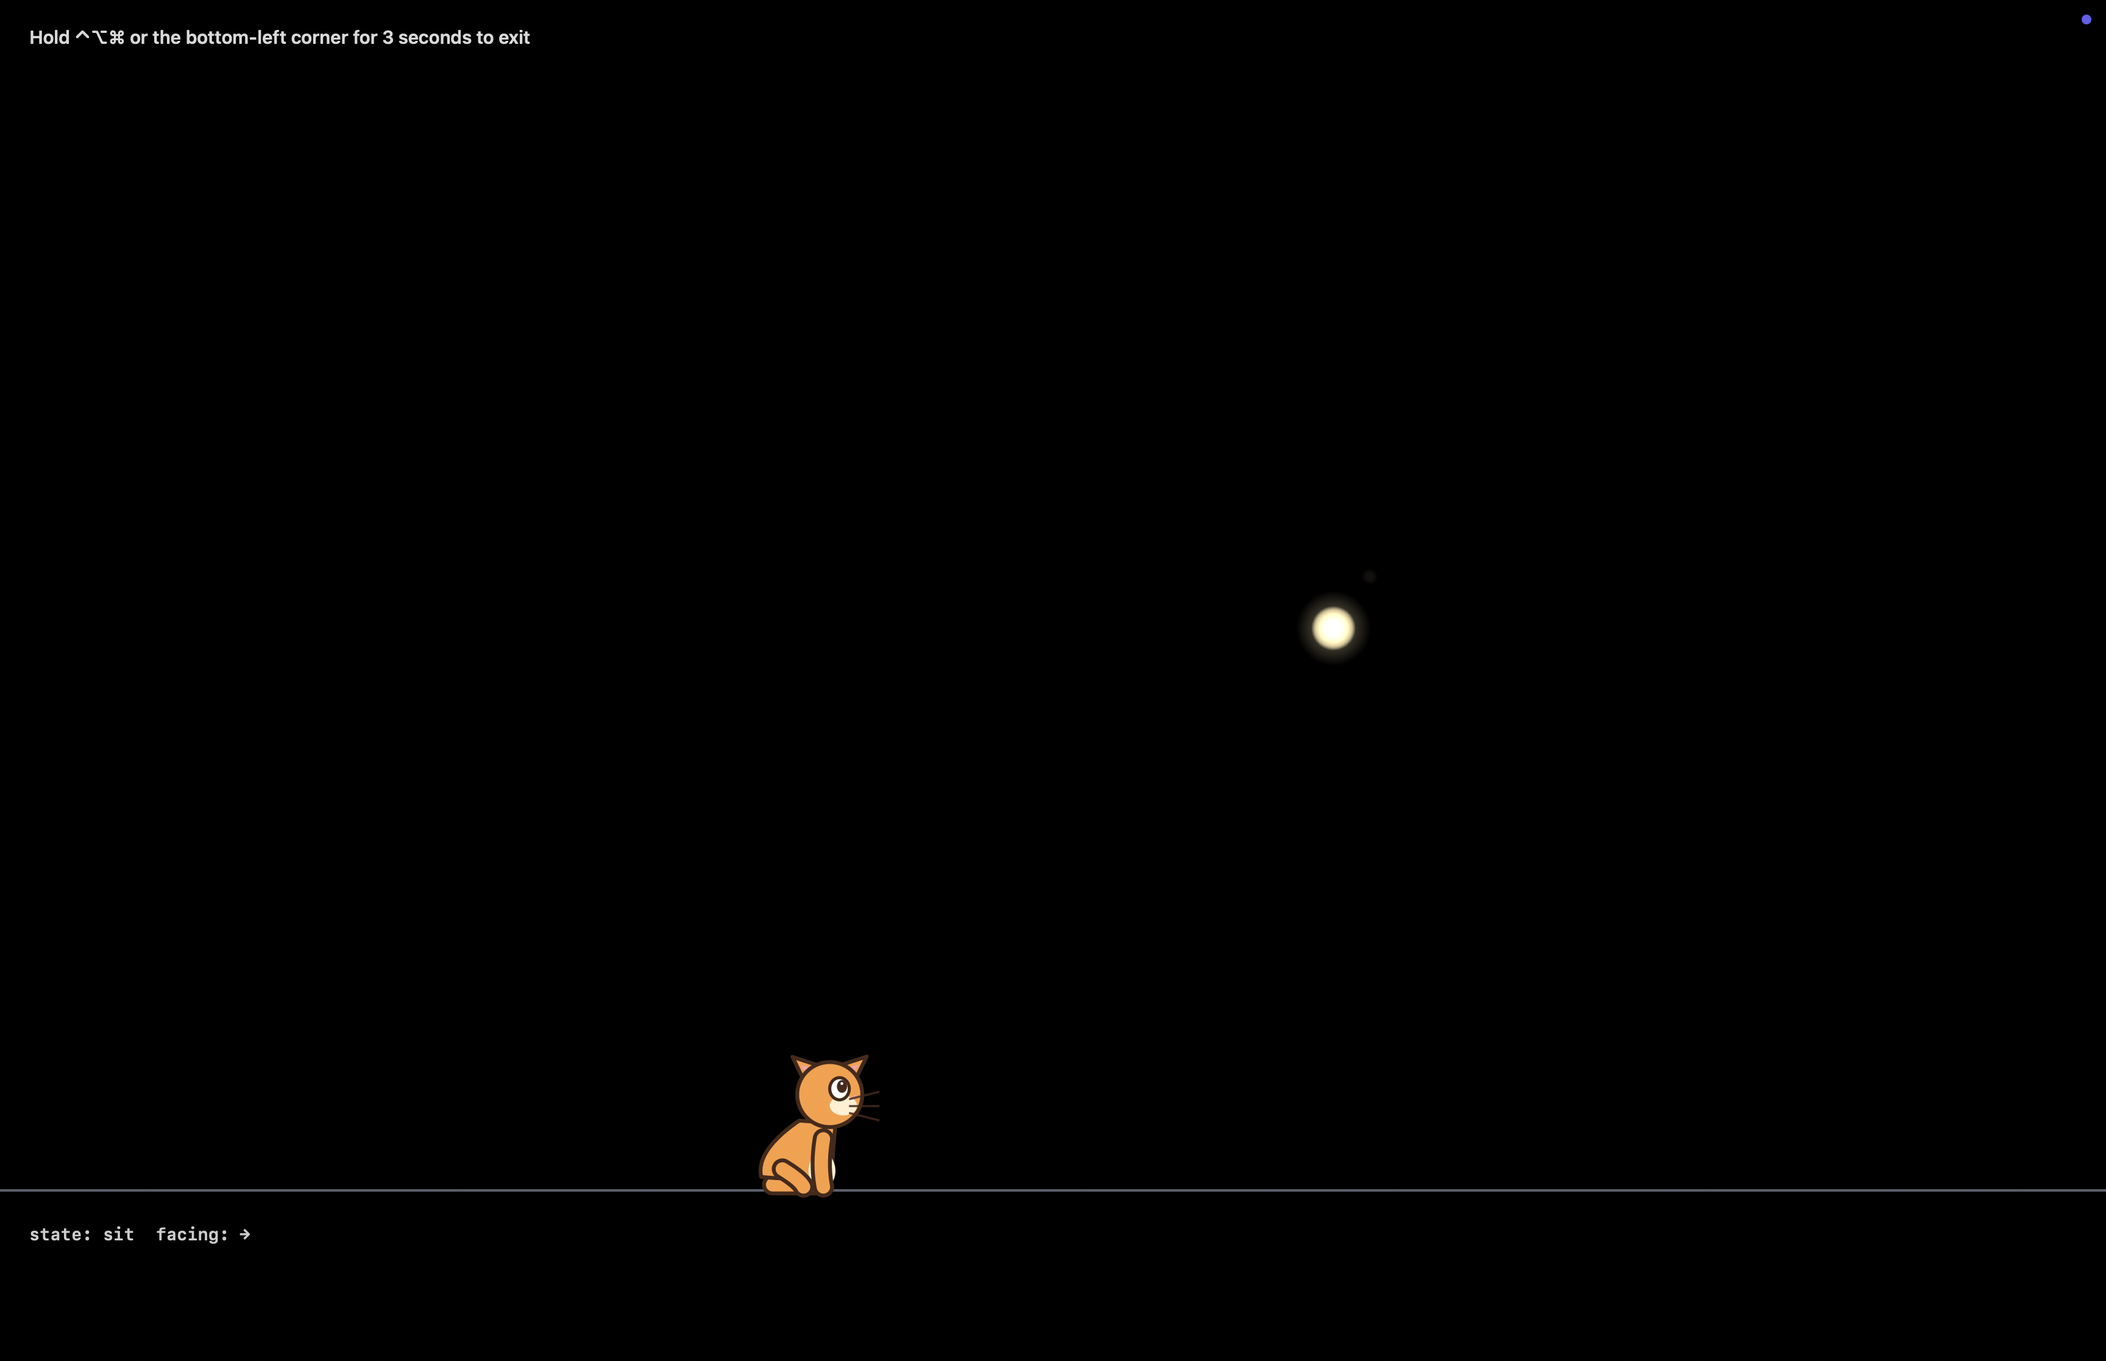
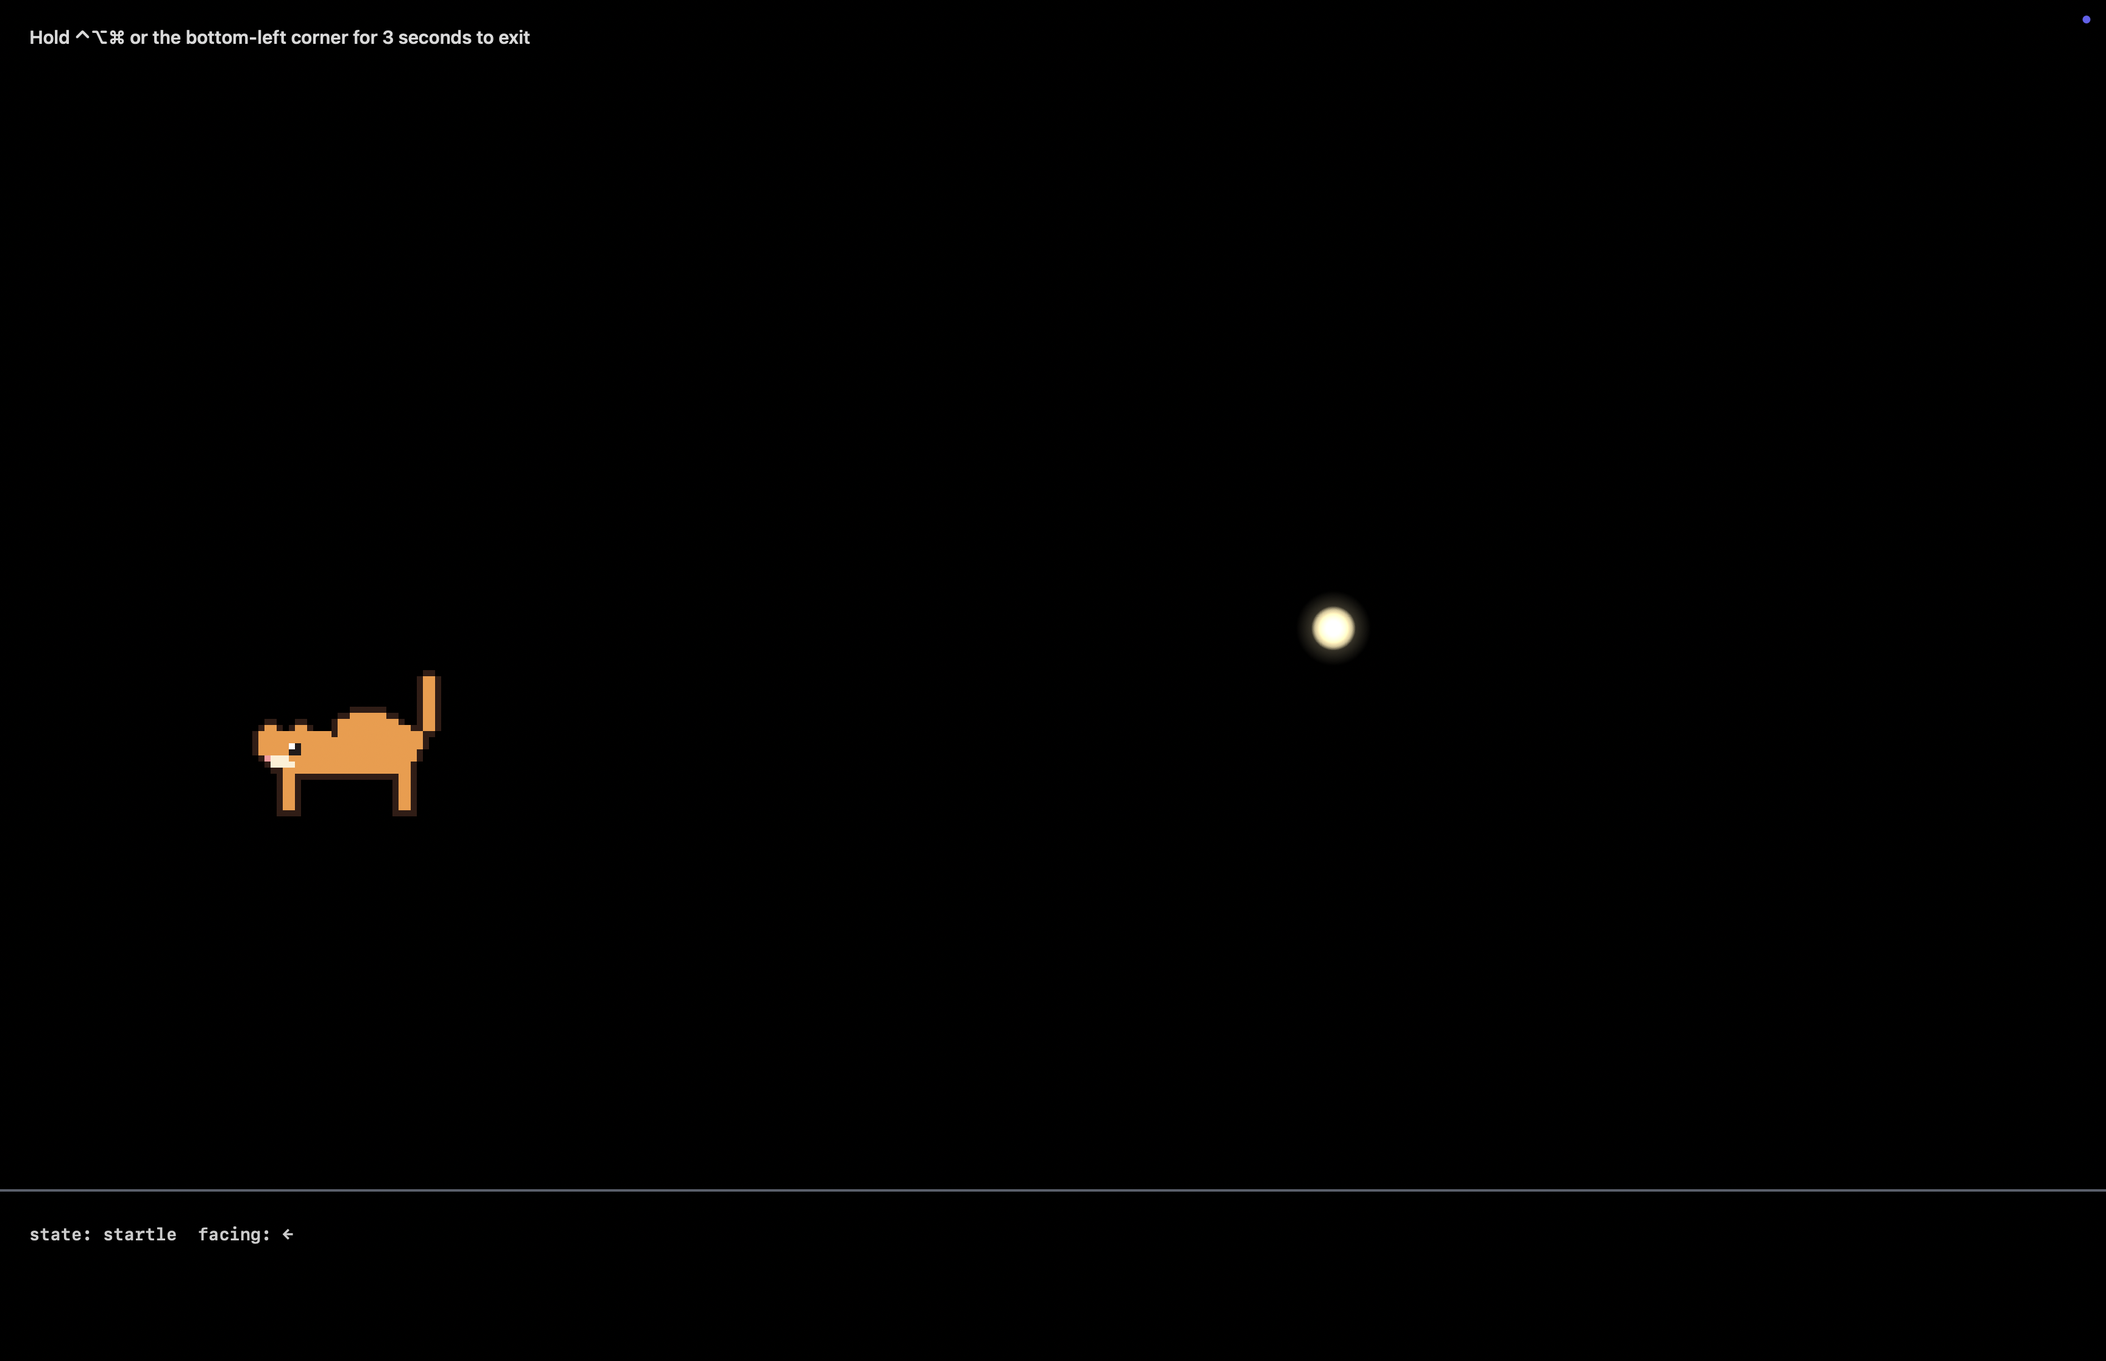
KiddyCat: 8-bit pixel style — authored sprite frames, third look on one brain
KP_CATSTYLE=pixel in the Cat Lab. Real pixel-art discipline, not a shrunken
vector cat: 34x24 text-bitmap frames on a coarse grid, 7-color palette
(outline/orange/shade/cream/pink/shine/pupil), exterior-only 1px outline,
2x2 eye with a single shine pixel, integer scaling with interpolation OFF
and integer screen coords for crisp chunky pixels.

Frames: idle(+blink), 4-frame walk cycle with shaded far legs and a 1px
gait bob on passing frames, sit(+blink) with wrapped tail, low stalk pair
with paw shuffle, bounding pounce with reaching forepaws, play-bow stretch,
and an arched bottle-brush startle. The shared KiddyCat brain (states, gait
phase, blink timers, laser AI) selects frames; facing flips the blit.

Iterated via the screenshot loop x9: fixed boxed-eye keyhole, giant cream
jaw, neck notch, horse-gap legs, weasel pounce, detached stretch leg,
earless startle.

Changed region(s): [[0.0938, 0.4942, 0.2188, 0.6177], [0.3438, 0.7722, 0.4375, 0.8957], [0.0625, 0.8957, 0.125, 0.9266]]

diff --git a/Sources/kiddyproof/KiddyCatPixel.swift b/Sources/kiddyproof/KiddyCatPixel.swift
@@ -1,0 +1,279 @@
+import AppKit
+
+// KIDDY, 8-BIT — authored pixel-art sprite frames (not a scaled-down vector cat):
+// a coarse grid, a tight palette, crisp integer scaling with interpolation OFF,
+// and discrete animation frames chosen by the shared KiddyCat brain (gait phase,
+// states, blink). The polish rules are the classic ones: 1px outline on the
+// EXTERIOR silhouette only, a 2x2 eye with a single shine pixel, restrained
+// interior detail, readable silhouette at a glance.
+enum KiddyCatPixel {
+
+    // Palette: '.'=clear  K=outline  O=orange  S=shade  C=cream  P=pink
+    //          W=eye shine  B=pupil
+    private static let palette: [Character: NSColor] = [
+        "K": NSColor(srgbRed: 0.20, green: 0.11, blue: 0.08, alpha: 1),
+        "O": NSColor(srgbRed: 0.96, green: 0.60, blue: 0.24, alpha: 1),
+        "S": NSColor(srgbRed: 0.78, green: 0.44, blue: 0.16, alpha: 1),
+        "C": NSColor(srgbRed: 1.00, green: 0.94, blue: 0.83, alpha: 1),
+        "P": NSColor(srgbRed: 1.00, green: 0.60, blue: 0.62, alpha: 1),
+        "W": NSColor(srgbRed: 1.00, green: 1.00, blue: 1.00, alpha: 1),
+        "B": NSColor(srgbRed: 0.13, green: 0.10, blue: 0.10, alpha: 1),
+    ]
+
+    // ------------------------------------------------------------------
+    // FRAMES — 34 wide x 24 tall, cat faces RIGHT, ground = bottom row.
+    // ------------------------------------------------------------------
+
+    // Standing / idle: tail curled up behind, all four feet planted.
+    static let idle1 = [
+        ".................KK......KK.......",
+        "................KOOK....KOOK......",
+        "................KOPOK..KOPOK......",
+        "...............KOOOOOOOOOOOOK.....",
+        "..............KOOOOOOOOOOOOOOK....",
+        "..............KOOOOOOOOOOOOOOK....",
+        ".KK...........KOOOOOOOOBWOOOOK....",
+        "KOOK..........KOOOOOOOOBBOOOOK....",
+        "KOOK..........KOOOOOOOOOOCCCPK....",
+        ".KOOK.........KOOOOOOOOOCCCCCK....",
+        ".KOOK....KKKKKKOOOOOOOOOCCCCK.....",
+        "..KOOK..KOOOOOOOOOOOOOOOCCCK......",
+        "...KOOKKOOOOOOOOOOOOOOOOOOK.......",
+        "....KOOKOOOOOOOOOOOOOOOOOOK.......",
+        ".......KOOOOOOOOOOOOOOOOOOK.......",
+        ".......KOOOOOOOOOOOOOOOOOOK.......",
+        ".......KOOOOOOOOOOOOOOOOOOK.......",
+        ".......KOOKKKKKKKKKKKKOOKKK.......",
+        ".......KOOK.SS...SS..KOOK.........",
+        ".......KOOK.SS...SS..KOOK.........",
+        ".......KOOK.SS...SS..KOOK.........",
+        ".......KOOK.SS...SS..KOOK.........",
+        ".......KKKK.KK...KK..KKKK.........",
+    ]
+
+    // Idle blink: eye closed (shine gone, pupil row becomes a dark lash line).
+    static let idle2: [String] = { blink(idle1) }()
+
+    private static func blink(_ frame: [String]) -> [String] {
+        frame.map { row in
+            row.replacingOccurrences(of: "BW", with: "OO")
+               .replacingOccurrences(of: "BB", with: "KK")
+        }
+    }
+
+    // Walk cycle, 4 frames: contact / passing / contact(opposite) / passing.
+    // Far legs are shade-colored and 3px so depth reads without clutter.
+    private static let walkBody: [String] = Array(idle1[0...16]) + [
+        ".......KKKKKKKKKKKKKKKKKKKK.......",
+    ]
+
+    static let walk1: [String] = walkBody + [
+        "....KOOK..SS......SS..KOOK........",
+        "....KOOK..SS......SS..KOOK........",
+        "....KOOK..SS......SS..KOOK........",
+        "....KOOK..SS......SS..KOOK........",
+        "....KKKK..KK......KK..KKKK........",
+    ]
+
+    static let walk2: [String] = walkBody + [
+        "........KOOK.SS..SS..KOOK.........",
+        "........KOOK.SS..SS..KOOK.........",
+        "........KOOK.SS..SS..KOOK.........",
+        "........KOOK.SS..SS..KOOK.........",
+        "........KKKK.KK..KK..KKKK.........",
+    ]
+
+    static let walk3: [String] = walkBody + [
+        "......SS..KOOK....KOOK..SS........",
+        "......SS..KOOK....KOOK..SS........",
+        "......SS..KOOK....KOOK..SS........",
+        "......SS..KOOK....KOOK..SS........",
+        "......KK..KKKK....KKKK..KK........",
+    ]
+
+    static let walk4: [String] = walkBody + [
+        "........KOOK.......KOOK...........",
+        "........KOOK.......KOOK...........",
+        "........KOOK.......KOOK...........",
+        "........KOOK.......KOOK...........",
+        "........KKKK.......KKKK...........",
+    ]
+
+    // Sit: upright, haunch mound, front legs straight, tail curled at the base.
+    static let sit1 = [
+        ".................KK......KK.......",
+        "................KOOK....KOOK......",
+        "................KOPOK..KOPOK......",
+        "...............KOOOOOOOOOOOOK.....",
+        "..............KOOOOOOOOOOOOOOK....",
+        "..............KOOOOOOOOOOOOOOK....",
+        "..............KOOOOOOOOBWOOOOK....",
+        "..............KOOOOOOOOBBOOOOK....",
+        "..............KOOOOOOOOOOCCCPK....",
+        "..............KOOOOOOOOOCCCCCK....",
+        "...............KOOOOOOOOCCCCK.....",
+        "................KOOOOOOOOCCK......",
+        "..............KOOOOOOOOOOOK.......",
+        ".............KOOOOOOOOOOOOK.......",
+        "............KOOOOOOOOOOOOOK.......",
+        "...........KOOOOOOOOOOOOOOK.......",
+        "..........KOOOOOOOOOOOOOOOK.......",
+        "..........KOOOOOOOOOOOOOOOK.......",
+        "..........KOOOOOOOOOOOOOOOK.......",
+        "..........KOOOOOOOOOOOOOOOK.......",
+        "..........KOOOOOOOOOKKOOKKK.......",
+        ".....KKKKKKOOOOOOOOK.KOOK.........",
+        "....KOOOOOKOOOOOOOOK.KOOK.........",
+        "....KKKKKKKKKKKKKKKK.KKKK.........",
+    ]
+
+    static let sit2: [String] = { blink(sit1) }()
+
+    // Stalk: body long and LOW, head thrust forward, tail flat behind.
+    static let stalk1 = [
+        "..................................",
+        "..................................",
+        "..................................",
+        "..................................",
+        "..................................",
+        "..................................",
+        "....................KK......KK....",
+        "...................KOOK....KOOK...",
+        "...................KOPOK..KOPOK...",
+        "..................KOOOOOOOOOOOOK..",
+        ".................KOOOOOOOOOOOOOOK.",
+        ".................KOOOOOOOOOOOOOOK.",
+        ".................KOOOOOOOOBWOOOOK.",
+        ".................KOOOOOOOOBBOOOOK.",
+        ".................KOOOOOOOOOOCCCPK.",
+        "........KKKKKKKKKOOOOOOOOOCCCCCK..",
+        "KKKKKK..KOOOOOOOOOOOOOOOOOOCCCCK..",
+        "KOOOOOKKOOOOOOOOOOOOOOOOOOOOCCK...",
+        "KKKKKKOOOOOOOOOOOOOOOOOOOOOOKK....",
+        ".....KKOOOOOOOOOOOOOOOOOOOOKK.....",
+        ".......KKKKKKKKKKKKKKKKKKKK.......",
+        ".....KOOK..KOOK....KOOK..KOOK.....",
+        ".....KOOK..KOOK....KOOK..KOOK.....",
+        ".....KKKK..KKKK....KKKK..KKKK.....",
+    ]
+
+    static let stalk2: [String] = {
+        var f = stalk1
+        f[21] = "...KOOK..KOOK....KOOK..KOOK......."
+        f[22] = "...KOOK..KOOK....KOOK..KOOK......."
+        f[23] = "...KKKK..KKKK....KKKK..KKKK......."
+        return f
+    }()
+
+    // Pounce (airborne): a bounding arc up-and-forward, paws tucked,
+    // tail streaming behind.
+    static let pounce = [
+        ".......................KK.....KK..",
+        "......................KOOK...KOOK.",
+        "......................KOPOK.KOPOK.",
+        ".....................KOOOOOOOOOOOK",
+        "....................KOOOOOOOOOOOOK",
+        "....................KOOOOOOOBWOOOK",
+        "....................KOOOOOOOBBOOOK",
+        "....................KOOOOOOOOOCCPK",
+        ".....................KOOOOOOOCCCCK",
+        "................KKOOOOOOOOOKKOOOK.",
+        "..............KKOOOOOOOOOK...KOOK.",
+        "............KKOOOOOOOOOK.....KKKK.",
+        ".KK.......KKOOOOOOOOOK............",
+        ".KOOK...KKOOOOOOOOOK..............",
+        "..KOOK.KOOOOOOOOK.................",
+        "....KKKOOOOOOOOK..................",
+        "......KOOK..KOOK..................",
+        "......KKKK..KKKK..................",
+        "..................................",
+        "..................................",
+        "..................................",
+        "..................................",
+        "..................................",
+        "..................................",
+    ]
+
+    // Stretch: play-bow — rump and tail high on the left, chest low,
+    // front legs extended, head low at the front.
+    static let stretch = [
+        "....KK............................",
+        "...KOOK...........................",
+        "..KOOK............................",
+        "..KOOK............................",
+        ".KOOK.............................",
+        ".KOOK.............................",
+        "..KOOKKKK.........................",
+        "...KOOOOOKK.......................",
+        "...KOOOOOOOKK.....................",
+        "....KOOOOOOOOKK...................",
+        "....KOOOOOOOOOOKK......KK.....KK..",
+        "....KOOOOOOOOOOOOKKK..KOOK...KOOK.",
+        "....KOOKKOOOOOOOOOOKK..KOPOK.KOPOK",
+        "....KOOK.KOOOOOOOOOOOKOOOOOOOOOOK.",
+        "....KOOK...KOOOOOOOOOOOOOOOOOOOOOK",
+        "....KOOK....KOOOOOOOOOOOOOBWOOOOOK",
+        "....KOOK....KOOOOOOOOOOOOOBBOOOOOK",
+        "....KOOK.....KOOOOOOOOOOOOOOOCCPK.",
+        "....KOOK.....KOOOOOOOOOOOOOCCCCK..",
+        "....KOOK......KKKKKKOOOOOOOKKKK...",
+        "....KOOK...........KOOK..KOOK.....",
+        "....KOOK...........KOOK..KOOK.....",
+        "....KOOK...........KOOK..KOOK.....",
+        "....KKKK...........KKKK..KKKK.....",
+    ]
+
+    // Startle: back arched, tail bottle-brushed straight up, ears up,
+    // stiff tiptoe legs.
+    static let startle = [
+        "...KK.............................",
+        "..KOOK............................",
+        "..KOOK............................",
+        "..KOOK............................",
+        "..KOOK............................",
+        "..KOOK............................",
+        "..KOOK.....KKKKKK.................",
+        "..KOOK...KKOOOOOOKK...............",
+        "..KOOK..KOOOOOOOOOOK....KK...KK...",
+        "..KOOKKOOOOOOOOOOOOK...KOOK.KOOK..",
+        "...KKOOOOOOOOOOOOOOKOOOOOOOOOOOOK.",
+        "....KOOOOOOOOOOOOOOOOOOOOOOOOOOOK.",
+        "....KOOOOOOOOOOOOOOOOOOOOBWOOOOOK.",
+        ".....KOOOOOOOOOOOOOOOOOOOBBOOOOOK.",
+        ".....KOOOOOOOOOOOOOOOOOOOOOCCCPK..",
+        "......KOOOOOOOOOOOOOOOOOOOCCCCK...",
+        "......KOOOOOOOOOOOOOOOOOOOOOKK....",
+        "......KOOKKKKKKKKKKKKKKKKKOOK.....",
+        "......KOOK...............KOOK.....",
+        "......KOOK...............KOOK.....",
+        "......KOOK...............KOOK.....",
+        "......KOOK...............KOOK.....",
+        "......KOOK...............KOOK.....",
+        "......KKKK...............KKKK.....",
+    ]
+
+    // ------------------------------------------------------------------
+    // Parsing + cache: one CGImage per frame, built once.
+    // ------------------------------------------------------------------
+
+    private static var cache: [String: CGImage] = [:]
+
+    static func image(_ key: String, _ rows: [String]) -> CGImage {
+        if let img = cache[key] { return img }
+        let h = rows.count
+        let w = rows.map { $0.count }.max() ?? 0
+        let ctx = CGContext(data: nil, width: w, height: h, bitsPerComponent: 8,
+                            bytesPerRow: w * 4, space: sharedRGB,
+                            bitmapInfo: CGImageAlphaInfo.premultipliedLast.rawValue)!
+        for (y, row) in rows.enumerated() {
+            for (x, ch) in row.enumerated() {
+                guard let color = palette[ch] else { continue }
+                ctx.setFillColor(color.cgColor)
+                ctx.fill(CGRect(x: x, y: h - 1 - y, width: 1, height: 1))
+            }
+        }
+        let img = ctx.makeImage()!
+        cache[key] = img
+        return img
+    }
+}

diff --git a/Sources/kiddyproof/KiddyCat.swift b/Sources/kiddyproof/KiddyCat.swift
@@ -15,7 +15,7 @@ final class KiddyCat {
 
     // Two looks, one brain: the elegant silhouette and the chunky arcade mascot
     // share the same skeleton, gait, tail physics, and behavior states.
-    enum Style { case silhouette, arcade }
+    enum Style { case silhouette, arcade, pixel }
     var style: Style = .silhouette
 
     enum State: String {
@@ -384,11 +384,60 @@ final class KiddyCat {
     // MARK: Draw
 
     func draw(into ctx: CGContext, origin: CGPoint, inkW w: CGFloat) {
+        if style == .pixel { drawPixel(into: ctx, origin: origin); return }
         if style == .arcade { drawArcade(into: ctx, origin: origin, inkW: w); return }
         drawSilhouette(into: ctx, origin: origin, inkW: w)
     }
 
     // Colors adapt: ink cat on light pixels, warm silver cat on dark.
+    // MARK: 8-bit style — authored sprite frames, chosen by the shared brain.
+    // The rig still drives everything (position, facing, gait phase, blink, states);
+    // the pixel style just quantizes it into discrete frames on a crisp integer grid.
+
+    private func pixelFrame() -> (String, [String]) {
+        switch state {
+        case .walk, .trot:
+            let frames = [KiddyCatPixel.walk1, KiddyCatPixel.walk2, KiddyCatPixel.walk3, KiddyCatPixel.walk4]
+            let i = min(3, max(0, Int(gaitPhase * 4)))
+            return ("walk\(i)", frames[i])
+        case .sit, .groom:
+            return blinkPhase > 0.4 ? ("sit2", KiddyCatPixel.sit2) : ("sit1", KiddyCatPixel.sit1)
+        case .stalk, .pounceWindup:
+            let i = min(1, max(0, Int(gaitPhase * 2)))
+            return i == 0 ? ("stalk1", KiddyCatPixel.stalk1) : ("stalk2", KiddyCatPixel.stalk2)
+        case .pounceAir:
+            return ("pounce", KiddyCatPixel.pounce)
+        case .land:
+            return ("stalk1", KiddyCatPixel.stalk1)   // compressed crouch on touchdown
+        case .stretch:
+            return ("stretch", KiddyCatPixel.stretch)
+        case .startle:
+            return ("startle", KiddyCatPixel.startle)
+        default:
+            return blinkPhase > 0.4 ? ("idle2", KiddyCatPixel.idle2) : ("idle1", KiddyCatPixel.idle1)
+        }
+    }
+
+    private func drawPixel(into ctx: CGContext, origin: CGPoint) {
+        let (key, rows) = pixelFrame()
+        let img = KiddyCatPixel.image(key, rows)
+        // Integer scale + integer screen coords + interpolation OFF = crisp pixels.
+        let scale = max(3, (size / 11).rounded())
+        let w = CGFloat(img.width) * scale
+        let h = CGFloat(img.height) * scale
+        let x = (pos.x - origin.x).rounded()
+        // Classic gait bob: passing frames ride one pixel higher than contact frames.
+        let bob: CGFloat = (key == "walk1" || key == "walk3") ? scale : 0
+        let y = (pos.y - origin.y).rounded() + bob
+        ctx.saveGState()
+        ctx.interpolationQuality = .none
+        ctx.setBlendMode(.normal); ctx.setAlpha(1)
+        ctx.translateBy(x: x, y: y)
+        if facing < 0 { ctx.scaleBy(x: -1, y: 1) }
+        ctx.draw(img, in: CGRect(x: -w / 2, y: 0, width: w, height: h))
+        ctx.restoreGState()
+    }
+
     private func drawSilhouette(into ctx: CGContext, origin: CGPoint, inkW w: CGFloat) {
         let pose = currentPose()
         let s = size

diff --git a/Sources/kiddyproof/CatLabScene.swift b/Sources/kiddyproof/CatLabScene.swift
@@ -54,7 +54,11 @@ final class CatLabScene: Scene {
         if cat == nil {
             let ground = ctx.bounds.minY + 140
             let c = KiddyCat(at: NSPoint(x: ctx.bounds.midX - 200, y: ground), groundY: ground, size: 58)
-            if ProcessInfo.processInfo.environment["KP_CATSTYLE"] == "arcade" { c.style = .arcade }
+            switch ProcessInfo.processInfo.environment["KP_CATSTYLE"] {
+            case "arcade": c.style = .arcade
+            case "pixel": c.style = .pixel
+            default: break
+            }
             cat = c
         }
         guard let cat = cat else { return }
